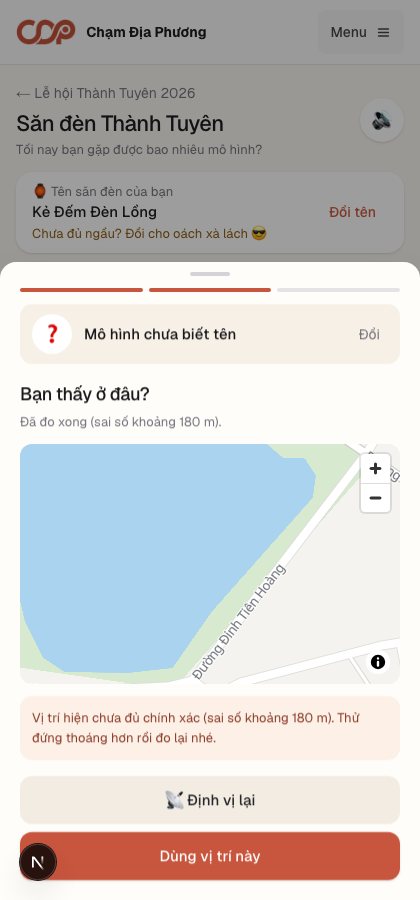
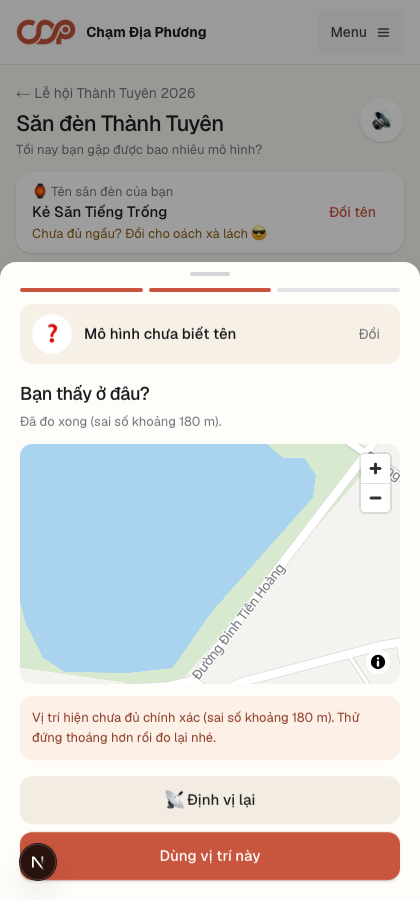
Trust the phone for distance, not for the time of day
Asked whether Samsung and other handsets were accounted for, two faults turned
up. The phone was sending the moment of its reading by its own clock, which the
server then compared against its own: a handset set an hour wrong would have
every report rejected as stale. It now sends how old the reading is - a gap
measured twice on the same clock, so any error cancels - and the server dates it
from there.

The second: Samsung Internet, Coc Coc, Edge and Opera all carry "Chrome" in
their identification, so every Samsung was being labelled a Chrome.

The tests also caught a race of my own: counting identities in parallel with
adding one let the count arrive first and miss it, so the flag appeared only
sometimes. The commands now run in order.

diff --git a/web/lib/game/store.js b/web/lib/game/store.js
@@ -235,14 +235,16 @@ function sanitizeLocation(event, input) {
     throw new GameInputError("Chưa đo được vị trí. Bấm “Định vị lại” rồi thử lại nhé.", "need_fix");
   }
 
-  const measuredAt = Date.parse(input.measuredAt ?? "");
-  if (!Number.isFinite(measuredAt)) {
+  // Máy chỉ gửi TUỔI của bản đo (mili giây), không gửi giờ theo đồng hồ của nó — máy để sai giờ
+  // là chuyện thường, mà sai giờ thì không được phép làm hỏng lượt báo. Giờ đo do SERVER quy ra.
+  const age = Number(input.measuredAgeMs);
+  if (!Number.isFinite(age) || age < 0) {
     throw new GameInputError("Chưa đo được vị trí. Bấm “Định vị lại” rồi thử lại nhé.", "need_fix");
   }
-  const age = Date.now() - measuredAt;
-  if (age > MAX_FIX_AGE_MS || age < -60 * 1000) {
+  if (age > MAX_FIX_AGE_MS) {
     throw new GameInputError("Vị trí đo đã lâu rồi. Bấm “Định vị lại” để đo lại nhé.", "stale_fix");
   }
+  const measuredAt = Date.now() - age;
 
   return {
     lat,
@@ -298,20 +300,23 @@ async function collectRiskFlags(event, { anonId, riskKey, ipHash, fix, objectId,
   const idsKey = GAME_KEYS.riskIds(event.id, riskKey, day);
   const ipKey = ipHash ? GAME_KEYS.riskIdsIp(event.id, ipHash, day) : null;
   const rateKey = GAME_KEYS.riskRate(event.id, riskKey, Math.floor(Date.now() / (RATE_WINDOW_SECONDS * 1000)));
-  const [, ids, bursts, seenSameModel, , ipIds] = await Promise.all([
-    redis.sadd(idsKey, anonId),
-    redis.scard(idsKey),
-    redis.incr(rateKey),
-    redis.hget(GAME_KEYS.collectionCounts(event.id, anonId), objectId),
-    ipKey ? redis.sadd(ipKey, anonId) : null,
-    ipKey ? redis.scard(ipKey) : 0,
-  ]);
-  // Hết ngày/hết cửa sổ thì tự dọn, không để rác trong Redis.
-  await Promise.all([
-    redis.expire(idsKey, 36 * 3600),
-    redis.expire(rateKey, RATE_WINDOW_SECONDS * 2),
-    ipKey ? redis.expire(ipKey, 36 * 3600) : null,
-  ]);
+
+  // PHẢI đi theo thứ tự trong một lượt gửi: chạy song song thì lệnh đếm có thể về TRƯỚC lệnh thêm,
+  // đếm thiếu mất chính danh tính vừa thêm (test bắt được 2026-09-16). Gộp một lượt cũng đỡ lệnh Redis.
+  const tx = redis.multi();
+  tx.sadd(idsKey, anonId);
+  tx.scard(idsKey);
+  tx.expire(idsKey, 36 * 3600); // hết ngày thì tự dọn, không để rác
+  tx.incr(rateKey);
+  tx.expire(rateKey, RATE_WINDOW_SECONDS * 2);
+  tx.hget(GAME_KEYS.collectionCounts(event.id, anonId), objectId);
+  if (ipKey) {
+    tx.sadd(ipKey, anonId);
+    tx.scard(ipKey);
+    tx.expire(ipKey, 36 * 3600);
+  }
+  const res = await tx.exec();
+  const [, ids, , bursts, , seenSameModel, , ipIds] = res;
 
   if (Number(ids) > MANY_IDS_PER_RISK_KEY) flags.push("many_ids");
   if (Number(ipIds) > MANY_IDS_PER_IP) flags.push("many_ids_ip");

diff --git a/web/app/_game/ReportSheet.js b/web/app/_game/ReportSheet.js
@@ -104,11 +104,14 @@ export function ReportSheet({
     setGpsState("locating");
     navigator.geolocation.getCurrentPosition(
       (position) => {
+        // KHÔNG gửi giờ theo đồng hồ máy: nhiều máy Android/iPhone chỉnh tay giờ sai cả tiếng,
+        // gửi đi là server tưởng bản đo đã cũ và từ chối sạch. Gửi TUỔI của bản đo — hiệu của hai
+        // mốc trên CÙNG một đồng hồ, nên đồng hồ sai bao nhiêu cũng không ảnh hưởng.
         const next = {
           lat: position.coords.latitude,
           lng: position.coords.longitude,
           accuracy: position.coords.accuracy,
-          measuredAt: new Date(position.timestamp || Date.now()).toISOString(),
+          measuredAt: position.timestamp || Date.now(), // mốc nội bộ, chỉ dùng để tính tuổi
           source: "gps",
         };
         setFix(next);
@@ -179,7 +182,8 @@ export function ReportSheet({
     form.set("lng", String(fix.lng));
     if (fix.accuracy) form.set("accuracy", String(Math.round(fix.accuracy)));
     form.set("locationSource", fix.source);
-    form.set("measuredAt", fix.measuredAt);
+    // Tuổi của bản đo tính ngay lúc gửi, theo đồng hồ của chính máy này. Server tự quy ra giờ thật.
+    form.set("measuredAgeMs", String(Math.max(0, Date.now() - fix.measuredAt)));
     if (withPhoto && photo?.file) form.set("photo", photo.file);
 
     try {
@@ -311,7 +315,7 @@ export function ReportSheet({
             onPick={
               manualAllowed
                 ? ({ lat, lng }) =>
-                    setFix({ lat, lng, accuracy: null, measuredAt: new Date().toISOString(), source: "manual" })
+                    setFix({ lat, lng, accuracy: null, measuredAt: Date.now(), source: "manual" })
                 : undefined
             }
             className="mt-3 h-60 rounded-xl"

diff --git a/web/lib/game/risk.js b/web/lib/game/risk.js
@@ -38,17 +38,27 @@ export function coarseDevice(ua = "") {
         : /windows/i.test(ua)
           ? "Windows"
           : "Khác";
+  // Thứ tự quan trọng: Samsung Internet, Cốc Cốc và Edge đều mang chữ "Chrome" trong chuỗi nhận
+  // dạng, phải xét trước Chrome nếu không máy Samsung sẽ bị gọi nhầm là Chrome.
   const browser = /zalo/i.test(ua)
     ? "Zalo"
     : /fban|fbav|fb_iab|instagram|messenger/i.test(ua)
       ? "Facebook"
-      : /crios|chrome/i.test(ua)
-        ? "Chrome"
-        : /fxios|firefox/i.test(ua)
-          ? "Firefox"
-          : /safari/i.test(ua)
-            ? "Safari"
-            : "Khác";
+      : /samsungbrowser/i.test(ua)
+        ? "Samsung Internet"
+        : /coc_coc_browser|coccoc/i.test(ua)
+          ? "Cốc Cốc"
+          : /edga?|edgios/i.test(ua)
+            ? "Edge"
+            : /opr\/|opera/i.test(ua)
+              ? "Opera"
+              : /crios|chrome/i.test(ua)
+                ? "Chrome"
+                : /fxios|firefox/i.test(ua)
+                  ? "Firefox"
+                  : /safari/i.test(ua)
+                    ? "Safari"
+                    : "Khác";
   return `${os} · ${browser}`;
 }
 

diff --git a/web/app/gameActions.js b/web/app/gameActions.js
@@ -124,8 +124,8 @@ export async function reportSighting(formData) {
         lng: formData.get("lng"),
         accuracy: formData.get("accuracy"),
         locationSource: formData.get("locationSource")?.toString(),
-        // Giờ ĐO trên máy người chơi, khác giờ server ghi — server kiểm để bắt buộc đo mới.
-        measuredAt: formData.get("measuredAt")?.toString(),
+        // Bản đo đã bao nhiêu mili giây (không phải giờ theo đồng hồ máy — máy hay sai giờ).
+        measuredAgeMs: formData.get("measuredAgeMs"),
       },
       photo,
       // Dấu vết phía server; trình duyệt không gửi và không sửa được (lib/game/risk.js).

diff --git a/docs/DECISIONS.md b/docs/DECISIONS.md
@@ -37,7 +37,23 @@ trình duyệt khác hay ẩn danh là thành người mới; **không bao giờ
 - **Không chặn theo IP** — cả nhà chung wifi ra một IP, chặn là oan người thật.
 - Admin xem được: danh tính, dấu máy, nhãn máy, sai số, **giờ đo**, và lý do bị gắn cờ.
 
+**Máy nào cũng phải chạy được, không riêng iPhone (chủ dự án hỏi 16/9 — và câu hỏi đó lòi ra 2 lỗi):**
+
+- **Không được tin đồng hồ của điện thoại.** Bản đầu gửi giờ đo theo đồng hồ máy rồi server so với
+  đồng hồ của mình. Máy để sai giờ (chỉnh tay, pin cạn, máy Android cũ) là **mọi lượt báo bị từ chối
+  sạch** vì server tưởng bản đo đã cũ. Sửa: máy chỉ gửi **TUỔI của bản đo** (hiệu hai mốc trên CÙNG
+  một đồng hồ, nên đồng hồ sai bao nhiêu cũng triệt tiêu), server tự quy ra giờ thật.
+- **Samsung Internet, Cốc Cốc, Edge, Opera đều mang chữ "Chrome"** trong chuỗi nhận dạng — phải xét
+  trước Chrome, không thì máy Samsung bị gọi nhầm là Chrome và nhãn máy trong admin sai hết.
+- Sai số GPS trên Android thường kém hơn iPhone (20–30 m là bình thường); ngưỡng cảnh báo 50 m đã
+  chừa đủ chỗ cho việc đó.
+
+**Một lỗi nữa test bắt được:** đếm số danh tính bằng `Promise.all` thì lệnh ĐẾM có thể về trước lệnh
+THÊM, đếm thiếu đúng cái vừa thêm → cờ lúc có lúc không. Đã gộp vào một pipeline có thứ tự.
+
 **Hạn chế đã biết, ghi lại để khỏi ảo tưởng:** đổi sang 4G là đổi dấu máy → không nhận ra cùng người;
+**một người có iPhone + Samsung thì hai máy là hai dấu khác nhau, không gộp được** (chỉ chung dấu
+mạng nếu cùng wifi);
 ngược lại hai người thật chung wifi + cùng đời trình duyệt thì **trùng dấu máy** → dễ oan. Vì vậy mọi
 tín hiệu ở đây chỉ để NHÌN. Giai đoạn 2 (OTP số điện thoại, tách người chơi đã xác minh, gộp điểm,
 một mô hình một lần cho mỗi người thật) **để sau lễ hội** — cần dịch vụ SMS trả tiền, làm rơi rụng

diff --git a/docs/STATUS.md b/docs/STATUS.md
@@ -13,7 +13,12 @@ người khác, bản đo cũ 30 giây). Server bắt buộc có giờ đo mới
 chối, không ghi**. Thêm dấu vết rủi ro phía server (IP băm, trình duyệt băm, dấu máy) để **gắn cờ,
 không chặn ai**. Lý do và hạn chế: DECISIONS 2026-09-16.
 
-Test tự viết (namespace `cdp-test-anticheat`, đã xoá sạch 77 khoá sau khi chạy): **18/18 đạt** — gồm
+Chủ dự án hỏi "đã tính máy Samsung và máy khác chưa" → lòi ra 2 lỗi thật, đã sửa: (1) server đang
+**tin đồng hồ của điện thoại**, máy để sai giờ là bị từ chối sạch — giờ máy chỉ gửi TUỔI bản đo;
+(2) Samsung Internet / Cốc Cốc / Edge bị gọi nhầm là Chrome. Test cũng bắt được một lỗi đếm chạy
+song song làm cờ lúc có lúc không.
+
+Test tự viết (namespace `cdp-test-anticheat`, xoá sạch sau mỗi lần chạy, chạy 3 lần đều xanh): **đạt hết** — gồm
 kịch bản Chrome thường → ẩn danh → trình duyệt khác, thiếu/cũ giờ đo, nhảy 700 m trong 5 giây, sai số
 180 m, ghim tay, và hai hạn chế đã biết (4G thoát được · chung wifi dễ oan).
 Kiểm giao diện thật bằng trình duyệt: chưa đo xong thì nút gửi **khoá**, hiện "Chờ đo vị trí…"; sai số
